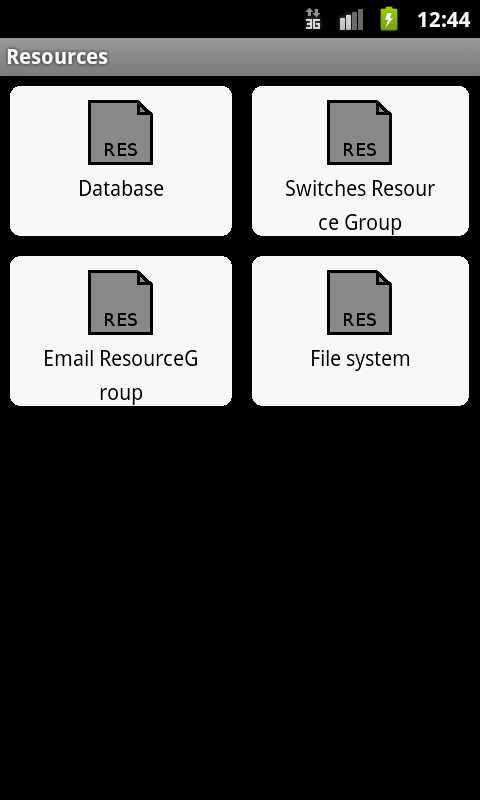
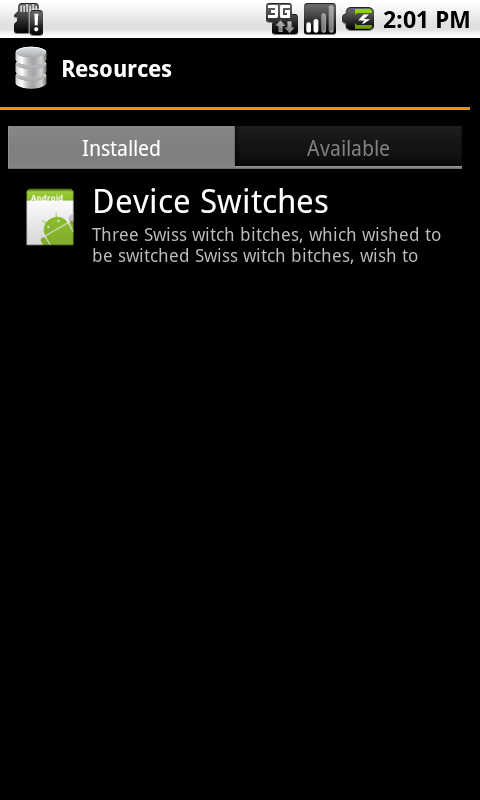
Created new screenshots and started updating some chapters. Refs #334

diff --git a/documentation/manual/manual.html b/documentation/manual/manual.html
@@ -14,10 +14,10 @@
 </head>
 <body>
   <div id="wrapper">
-    <div id="page-head-date">01. Oktober 2011</div>
+    <div id="page-head-date">30. Dezember 2011</div>
     <div id="page-head-title">Privacy Management Platform</div>
     <div id="page-title">Handbuch</div>
-    <div id="page-version">Version 1.0</div>
+    <div id="page-version">Version 1.1</div>
     
     <nav>
       <div class="title">Inhaltsverzeichnis</div>
@@ -95,7 +95,7 @@
         verwendet werden.
       </p>
       
-      <h2 id="basisc_res">Ressourcengruppen</h2>
+      <h2 id="basisc_res">Ressourcen</h2>
       <p>
         Ressourcen bieten Anwendungen Zugriff auf die verschiedenen Funktionen eines 
         Android-Gerätes. In der PMP werden einzelne, inhaltlich zusammengehörige 
@@ -111,24 +111,28 @@
         "Dateisystem" nur das Auslesen einer Datei, nicht jedoch das Schreiben in eine Datei).
       </p>
        
-      <h2 id="basics_sl">Service-Level</h2>
+      <h2 id="basics_sl">Service-Features</h2>
       <p>
         Jede PMP-Applikation legt fest, welche Funktionen bestimmter Ressourcen 
         sie benötigt und welche Dienste sie hierfür dem Benutzer anbietet. Diese 
-        Vereinbarung wird als Service-Level bezeichnet. Eine Applikation besitzt
-        in der Regel mehrere Service-Levels.
+        Vereinbarung wird als Service-Features bezeichnet. Eine Applikation besitzt
+        in der Regel mehrere Service-Features.
       </p>
       <p>
-        Im Detail legt jedes Service-Level fest, welche Ressourcengruppen benötigt 
-        werden, und auf welchen Wert die zur Gruppe gehörigen Privacy-Levels 
-        gesetzt sein müssen. Wird ein Service-Level gewählt, so werden die
-        Privacy-Levels auf die festgelegten Werte gesetzt, wodurch Zugriffe auf
-        die zugehörigen Funktionen der Ressourcen möglich sind.
+        Im Detail legt jedes Service-Feature fest, welche Ressourcen, und welche
+        Funktionen dieser Ressource, benötigt werden. Im Gegenzug bietet die 
+        Applikation dem Anwender für den Zugriff auf diese Ressource bzw. dieser
+        Funktion bestimmte Funktionalitäten an.
       </p>
       <p>
-        Das niedrigste Service-Level, das PMP-Applikationen stets anbieten, erlaubt
-        diesen keinerlei Zugriff auf Ressourcen und damit auf kritische Bereiche
-        des Geräts.
+        Es können bei Bedarf mehrere Service-Features gleichzeitig aktiviert werden,
+        wodurch der Funktionsumfang der Applikation erweitert werden kann.
+      </p>
+      
+      <h2 id="basics_presets">Prests</h2>
+      <p>
+        Über die Presets können mehrere Service-Features zusammengefasst und
+        somit bei Bedarf gemeinsam aktiviert oder deaktiviert werden.
       </p>
       
       <h1 id="req">Systemanforderungen</h1>
@@ -178,16 +182,20 @@
         Starten der Anwendung öffnet. Dieses bietet Ihnen Zugriff auf alle Funktionen der PMP:
         <ul>
           <li>Verwalten aller installierter Applikationen über die Schaltfläche
-            "Applications" (siehe <span class="reference" title="#apps"></span>).</li>
-          <li>Anzeigen aller installierten Ressourcengruppen über die Schaltfläche
-            "Resources" (siehe <span class="reference" title="#res"></span>).</li>
+            "Apps" (siehe <span class="reference" title="#apps"></span>).</li>
+          <li>Anzeigen aller installierten Ressourcen über die Schaltfläche
+            "Resources" (siehe <span class="reference" title="#res"></span>).</li>   
+          <li>Verwalten der Presets aller installierten Applikationen
+            über die Schaltfläche "Prests" (siehe <span class="reference" title="#presets"></span>). 
+            Diese Funktion steht nur bei aktiviertem Experten-Modus zur Verfügung</li>                
+          <li>Ändern der Einstellungen der PMP über die Schaltfläche
+            "Settings" (siehe <span class="reference" title="#modes"></span>).</li>
         </ul>
       </p>
       <p>
-        Darüber hinaus steht die Möglichkeit zur Verfügung, den Anwender-Modus zu
-        ändern (siehe <span class="reference" title="#modes"></span>). 
-        Gegenwärtig ist diese Funktion jedoch noch nicht integriert.
-        Daher ist die entsprechende Schaltfläche nicht sichtbar.
+        Unterhalb der Schaltflächen werden Informationen über die Anzahl der installierten
+        Applikationen und Ressourcen sowie der erstellten Presets angezeigt.
+        Eine Angabe der installierten PMP-Version folgt unterhalb dieser Informationen.
       </p>
       <div class="clear"></div>               
       
@@ -197,13 +205,15 @@
         Die PMP lässt sich in
         zwei Modi betreiben: Im einfachen Modus (als Simple Mode bezeichnet), stehen
         dem Benutzer die wichtigsten Funktionen zur Verfügung. Werden alle Funktionen
-        benötigt, lässt sich das System in den erweiterten Modus (Expert Mode) schalten.
+        benötigt, lässt sich das System in den experten Modus (Expert Mode) schalten.
       </p>
       
       <h3 id="switchmode">Modus-Wechsel</h3>
       <p>
-        Der Wechsel zwischen einfachem und erweitertem Modus erfolgt über die 
-        Schaltfläche "Expert Mode" auf dem Startbildschirm der PMP.
+        Der Wechsel zwischen einfachem und erweitertem Modus erfolgt über den
+        Einstellungs-Dialog der PMP. Dieser wird über die Schalftläche "Settings" 
+        im Hauptmenü aufgerufen. Über die dort vorhandene Schaltfläche "Expert Mode"
+        lässt sich der experten Modus aktivieren bzw. deaktivieren. 
       </p>
       <p>
         Befindet sich die PMP im erweiterten Modus, erscheint ein Häkchen im vorderen
@@ -219,9 +229,9 @@
       </p>
       
        
-      <h3 id="expertmode">Erweiterter Modus (Expert Mode)</h3>
+      <h3 id="expertmode">Experten Modus (Expert Mode)</h3>
       <p>
-        Der erweiterte Modus gibt Zugriff auf alle Funktionen der PMP. Da sich daher 
+        Der experten Modus gibt Zugriff auf alle Funktionen der PMP. Da sich daher 
         unerfahrene Benutzer überfordert fühlen könnten, richtet sich dieser Modus
         an erfahrene Benutzer, die vollen Zugriff auf den Funktionsumfang haben möchten.
       </p>
@@ -231,10 +241,12 @@
         Hinweis folgenden Funktionen sind ausschließlich im erweiterten
         Modus verfügbar.
       </p>
+      <!--
       <p>
         Da der erweiterte Modus gegenwärtig nicht implementiert ist, wird auf ihn 
         in dieser Version des Handbuchs nicht näher eingegangen.
       </p>
+      -->
       
       <h2 id="apps">Applikationen</h2>
       <h3 id="apps_inst">Applikationen installieren</h3>
@@ -258,7 +270,7 @@
         momentan auf dem Gerät installierten PMP-Applikationen anzeigen.
       </p>
       
-      <h3 id="apps_sl">Service-Levels einstellen</h3>
+      <h3 id="apps_sl">Service-Levels einstellen TODO</h3>
 	  <a href="images/app_sl.png" class="fancybox">
         <img src="images/app_sl.png" alt="Angebotene Service-Levels" style="width:215px;" class="right">
 	  </a>
@@ -303,16 +315,27 @@
       </p>
       <div class="clear"></div>
       
-      <h2 id="res">Ressourcengruppen</h2>
-      <h3 id="res_inst">Ressourcengruppen installieren</h3>
+      <h2 id="res">Ressourcen</h2>
+      <h3 id="res_inst">Ressourcen installieren</h3>
 	  <a href="images/res_inst.png" class="fancybox">
         <img src="images/res_inst.png" alt="Installationsdialog einer Ressourcengruppe" style="width:215px;" class="right">
       </a><p>
-        PMP-Ressourcengruppen werden in Form einer Android-Applikation, einer apk-Datei,
+        PMP-Ressourcen werden über den integrierten Marktplatz installiert.
+        Dieser ist über die Schaltfläche "Resources" im Hauptmenü und anschließender
+        Auswahl des Reiters "Available" zugänglich. Dort werden alle gegenwertig
+        Online verfügbaren Ressourcen angezeigt. 
+      </p>
+      <p>
+        Durch Tippen auf eine Ressource werden weitere Informationen über diese
+        angezeigt. Anschließend kann die Ressource über die Schaltfläche 
+        "Install" auf dem Gerät installiert werden und steht dann anderen 
+        Applikationen zur Verfügung.
+      </p>
+        <!--werden in Form einer Android-Applikation, einer apk-Datei,
         ausgeliefert. Der erste Schritt der Installation unterscheidet sich daher 
         nicht von der Installation gewöhnlicher Android-Applikationen:
         Die apk-Datei wird auf das Gerät übertragen und geöffnet oder die
-        Ressourcengruppe wird aus dem Android Market ausgewählt. 
+        Ressourcengruppe wird aus dem Android Market ausgewählt.     
       </p>
       <p>
         Nach diesem Schritt muss sich die Applikation bei der PMP anmelden. Hierzu zeigt jede
@@ -324,9 +347,27 @@
       <p>
         Durch Betätigen der "Home"- oder "Zurück"-Taste kann der Installations-Dialog
         nach erfolgreicher Installation und Registrierung verlassen werden.
-      </p>
+      </p>                                                     -->
       <div class="clear"></div>
       
+      <h3 id="res_show">Ressourcen anzeigen und deinstallieren</h3>
+  	  <a href="images/pmp_res_details.png" class="fancybox">
+        <img src="images/pmp_res_details.png" alt="Details zu einer Ressourcengruppe" style="width:215px;" class="right">
+      </a>
+	    <p>
+        Über die Schaltfläche "Resources" im Hauptmenü lassen sich alle
+        auf dem Gerät installierten Ressourcen anzeigen. 
+        Durch Antippen einer Ressource werden weitere Informationen über diese
+        angezeigt.
+      </p>  
+      <p>
+        Der Details-Dialog, der beim Antippen einer Ressource erscheint, ermöglicht 
+        zudem das einfache Deinstallieren der entsprechenden Ressource.
+        Hierzu genügt ein Tippen auf die Schaltfläche "Uninstall". Anschießend
+        wird die Ressource vom Gerät entfernt. Wird die Ressource später 
+        nochmals benötigt, lässt sie sich über den Marktplatz wieder installieren.
+      <div class="clear"></div>
+      <!--
       <h3 id="res_uninst">Ressourcengruppen deinstallieren</h3>
       <p>
         Wie bereits unter "<span class="reference" title="#res_inst"></span>" erwähnt,
@@ -336,18 +377,19 @@
         zu deinstallierende Ressourcengruppe ausgewählt und über die 
         Schaltfläche "Uninstall" vom Gerät entfernt.
       </p>
+      -->
       
-      <h3 id="res_show">Installierte Ressourcengruppen anzeigen</h3>
-	  <a href="images/pmp_res_details.png" class="fancybox">
-        <img src="images/pmp_res_details.png" alt="Details zu einer Ressourcengruppe" style="width:215px;" class="right">
-      </a>
-	  <p>
-        Über die zweite Schaltfläche "Resources" im Hauptmenü der PMP lassen sich 
-        alle gegenwärtig auf dem Gerät installierten PMP-Ressourcengruppen anzeigen.
-        Durch Antippen einer Ressource werden weitere Informationen über diese
-        angezeigt.
-      </p>  
-      <div class="clear"></div>
+      
+      <h2 id="presets">Presets</h2>
+      <h3 id="presets_create">Prests erstellen</h3>
+      <p>
+        TODO
+      </p>   
+      
+      <h3 id="presets_create">Prests verwalten/löschen</h3>
+      <p>
+        TODO
+      </p>
       
      
       <h1 id="developers">Entwickler</h1>
@@ -1005,9 +1047,14 @@ getAppService().getInitialServiceLevel()
       
       <h1 id="versions">Versionshistorie</h1> 
       
+      <h3>Version 1.1 (30.12.2011)</h3>
+      <ul>
+        <li>Beginnen der Anpassung des Anwenderkapitels an aktuelle Iteration.</li>
+      </ul>
+      
       <h3>Version 1.0 (01.10.2011)</h3>
       <ul>
-        <li>Letzte Prüfung des Handbuchs. Alle Kapitel fertig gestellt</li>
+        <li>Letzte Prüfung des Handbuchs. Alle Kapitel fertig gestellt. Stand: 1. Iteration</li>
       </ul>
       
       <h3>Version 0.5 (29.09.2011)</h3>
